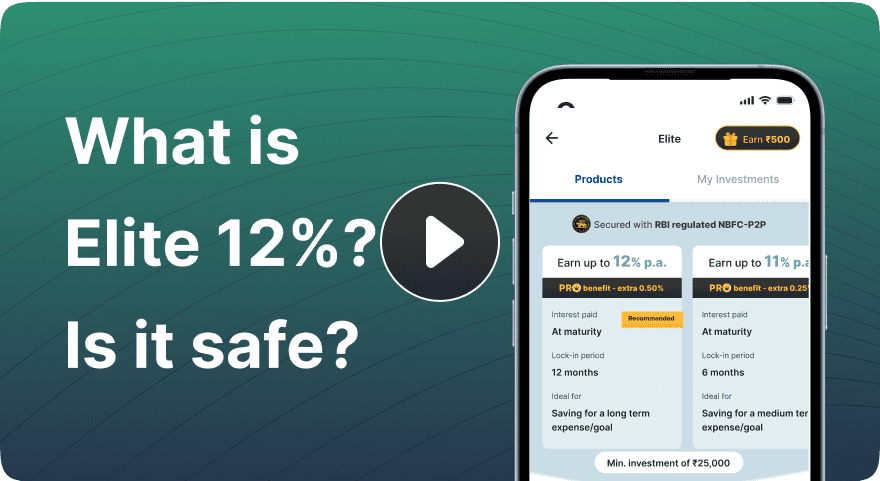
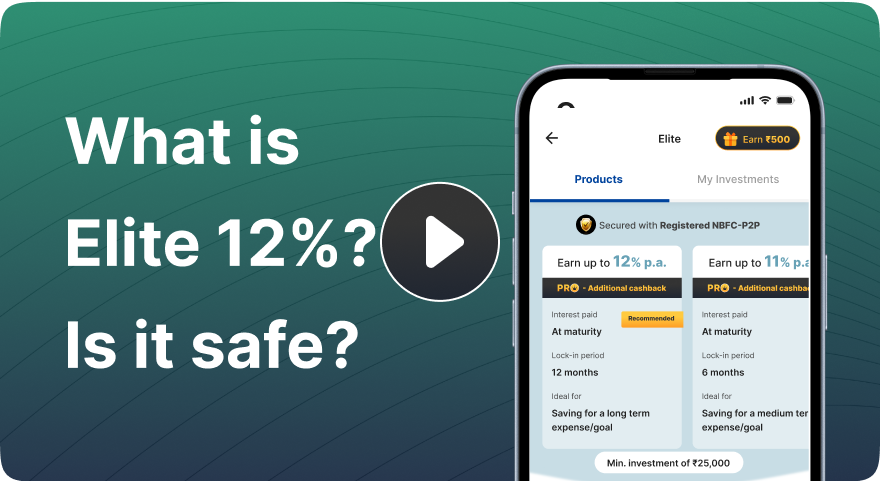
rbi changes

diff --git a/src/components/Elite/EliteHeroSection.js b/src/components/Elite/EliteHeroSection.js
@@ -31,8 +31,8 @@ export default function EliteHeroSection({ homePage }) {
                         Withdraw anytime
                     </div>
                     {homePage &&
-                        <div className='mt-8 ml-4 lg:ml-0  grid grid-cols-3 lg:grid-cols-6 justify-items-start gap-y-4 text-black'>
-                            <div className="flex col-span-3">
+                        <div className='mt-8 ml-4 lg:ml-0  grid grid-cols-2 lg:grid-cols-5 justify-items-start gap-y-4 text-black'>
+                            <div className="flex col-span-2">
                                 <Image
                                     placeholder="empty"
                                     src={rbi}
@@ -41,7 +41,7 @@ export default function EliteHeroSection({ homePage }) {
                                 />
                                 <div className="self-center ml-5">
                                     <p className="font-medium text-[10px] text-[#606060]">Partnered with</p>
-                                    <p className="font-semibold text-base">RBI regulated <b>NBFC - P2P</b></p>
+                                    <p className="font-semibold text-base">Registered <b>NBFC - P2P</b></p>
                                 </div>
                             </div>
                             <div className="self-center">

diff --git a/src/pages/elite.js b/src/pages/elite.js
@@ -39,9 +39,9 @@ export default function Elite() {
     }, [])
     return (<>
         <MetaSection
-            title='Elite: Earn higher returns with RBI regulated P2P lending '
-            desc='Elite gives you the opportunity to get returns up to 12% through short-term investment in RBI regulated NBFC P2P lending to people with the high credit score.'
-            keyWords='High returns, Safe investments, Double returns than FD, RBI regulated, P2P lending, Low risk investments, Trusted investments, Safe returns' />
+            title='Elite: Earn higher returns with Registered P2P lending '
+            desc='Elite gives you the opportunity to get returns up to 12% through short-term investment in Registered NBFC P2P lending to people with the high credit score.'
+            keyWords='High returns, Safe investments, Double returns than FD, Registered, P2P lending, Low risk investments, Trusted investments, Safe returns' />
         <EliteHeroSection homePage={false} />
         <AvailablePlansSection />
         <WhyShouldSection homePage={false} />

diff --git a/src/components/Elite/AboutFaircent.js b/src/components/Elite/AboutFaircent.js
@@ -18,7 +18,7 @@ export default function AboutFaircent() {
                             </p>
                         </div>
                         <p className='my-4 lg:my-0 lg:mt-8 text-xs lg:text-base leading-6 text-[#606060]'>
-                            Faircent is <b>India`s first and largest RBI-regulated NBFC-P2P</b> that started with the vision of financially empowering the country’s eligible individuals and SMEs. Whether you are a lender or a borrower, you get the best of rates at Faircent. Because we know every % counts!
+                            Faircent is <b>India`s first and largest Registered NBFC-P2P</b> that started with the vision of financially empowering the country’s eligible individuals and SMEs. Whether you are a lender or a borrower, you get the best of rates at Faircent. Because we know every % counts!
                         </p>
                     </div>
                     <div className='w-full lg:w-[47%] grid grid-cols-2 grid-rows-2 gap-4 lg:gap-6'>

diff --git a/src/components/Elite/WhyShouldSection.js b/src/components/Elite/WhyShouldSection.js
@@ -45,8 +45,8 @@ let data = [{
     border: 'border-[#FF9F40]'
 }, {
     img: elite5,
-    header: 'RBI regulated',
-    text: 'India`s first & largest RBI regulated <br/> NBFC Your money in safe hands',
+    header: 'Registered',
+    text: 'India`s first & largest Registered <br/> NBFC Your money in safe hands',
     to: 'to-[#FFFCF3]',
     border: 'border-[#FFB133]'
 }, {
@@ -86,7 +86,7 @@ export default function WhyShouldSection({ homePage }) {
                         />
                         <div className="self-center ml-3 lg:ml-4">
                             <p className="font-medium text-sm lg:text-base text-[#606060]">Partnered with</p>
-                            <p className="font-semibold text-sm lg:text-base">RBI regulated <b>NBFC - P2P</b></p>
+                            <p className="font-semibold text-sm lg:text-base">Registered <b>NBFC - P2P</b></p>
                         </div>
                     </div>
                 </div>}

diff --git a/src/pages/about-us.js b/src/pages/about-us.js
@@ -18,7 +18,7 @@ export default function AboutUs() {
         <>
             <MetaSection
                 title='About Univest'
-                desc='SEBI registered stock market research platform which gives free portfolio analysis. Investment ideas, stock market tips and RBI regulated high return investment plans'
+                desc='SEBI registered stock market research platform which gives free portfolio analysis. Investment ideas, stock market tips and Registered high return investment plans'
                 keyWords='SEBI registered, Univest, Univest India, Learn Stock Investing, Free portfolio analysis, Buy portfolio' />
             <YouCanTrush />
             <MyTeam />

diff --git a/src/components/ProPage/AvailablePlansSection.js b/src/components/ProPage/AvailablePlansSection.js
@@ -57,7 +57,7 @@ export default function AvailablePlansSection() {
                         />
                         <div className="self-center ml-5 text-white text-sm">
                             <p className="font-medium ">Secured with</p>
-                            <p className="font-extrabold ">RBI regulated largest P2P-NBFC FAI₹CENT</p>
+                            <p className="font-extrabold ">Registered largest P2P-NBFC FAI₹CENT</p>
                         </div>
                     </div>
                 </div>

diff --git a/src/components/Elite/AvailablePlansSection.js b/src/components/Elite/AvailablePlansSection.js
@@ -71,7 +71,7 @@ export default function AvailablePlansSection() {
                         />
                         <div className="self-center ml-5 text-base text-black">
                             <p className="font-medium ">Partnered with</p>
-                            <p className="font-extrabold ">RBI regulated NBFC-P2P</p>
+                            <p className="font-extrabold ">Registered NBFC-P2P</p>
                         </div>
                     </div>
                 </div>

diff --git a/src/components/Elite/PartneredWithSection.js b/src/components/Elite/PartneredWithSection.js
@@ -24,7 +24,7 @@ export default function PartneredWithSection() {
                         alt='demo image'
                     />
                     <p className='text-base lg:text-2xl text-black font-extrabold'>
-                        India&apos;s first and largest<br className='lg:hidden' /> RBI-regulated NBFC-P2P
+                        India&apos;s first and largest<br className='lg:hidden' /> Registered NBFC-P2P
                     </p>
                 </div>
             </div>
